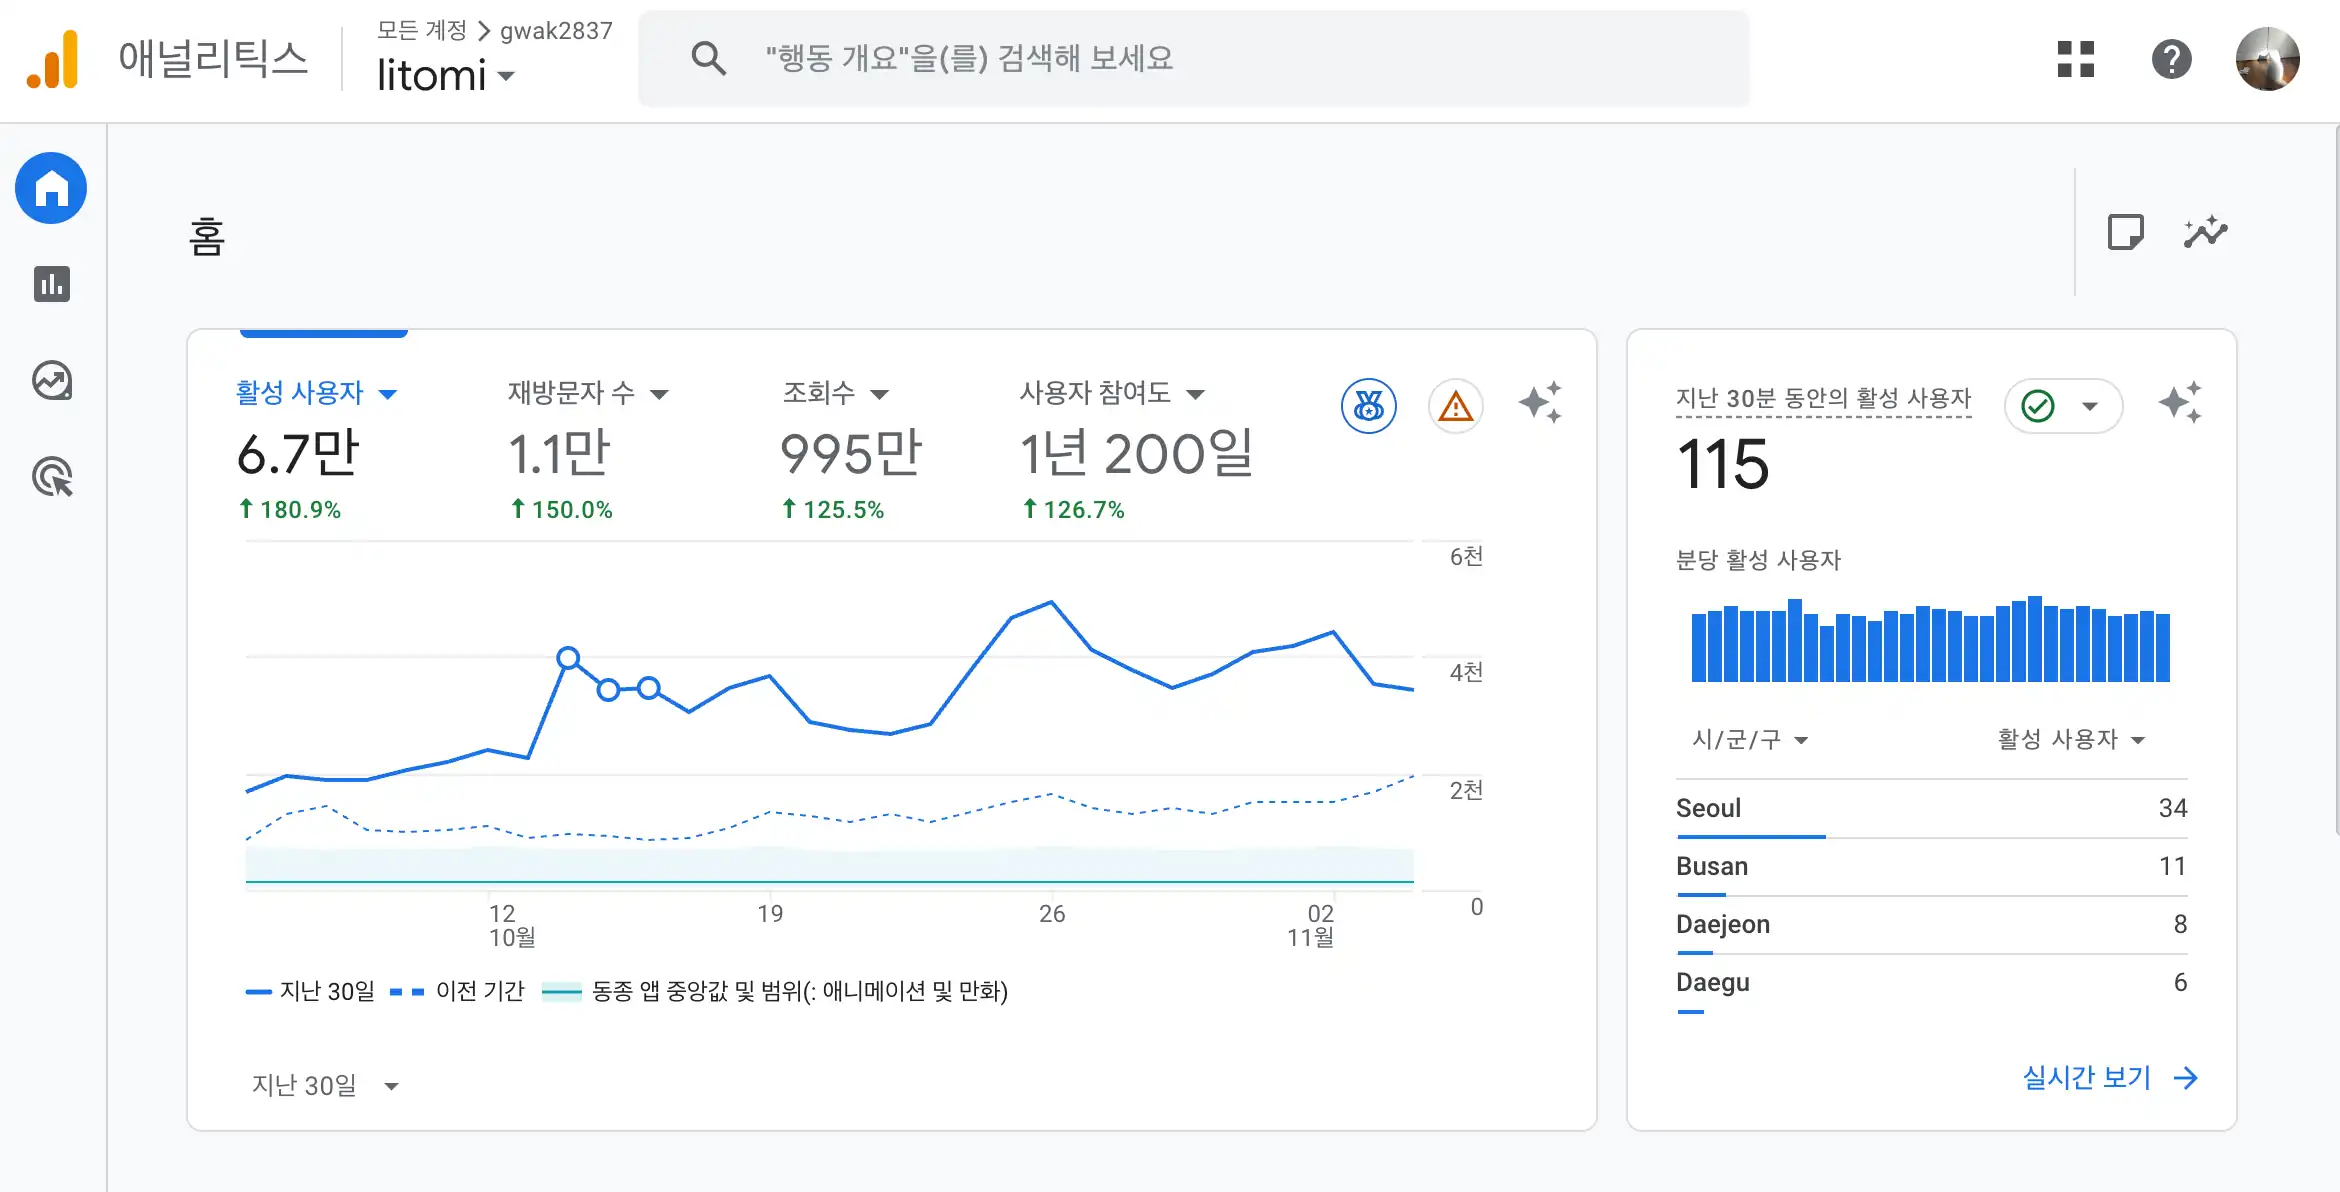
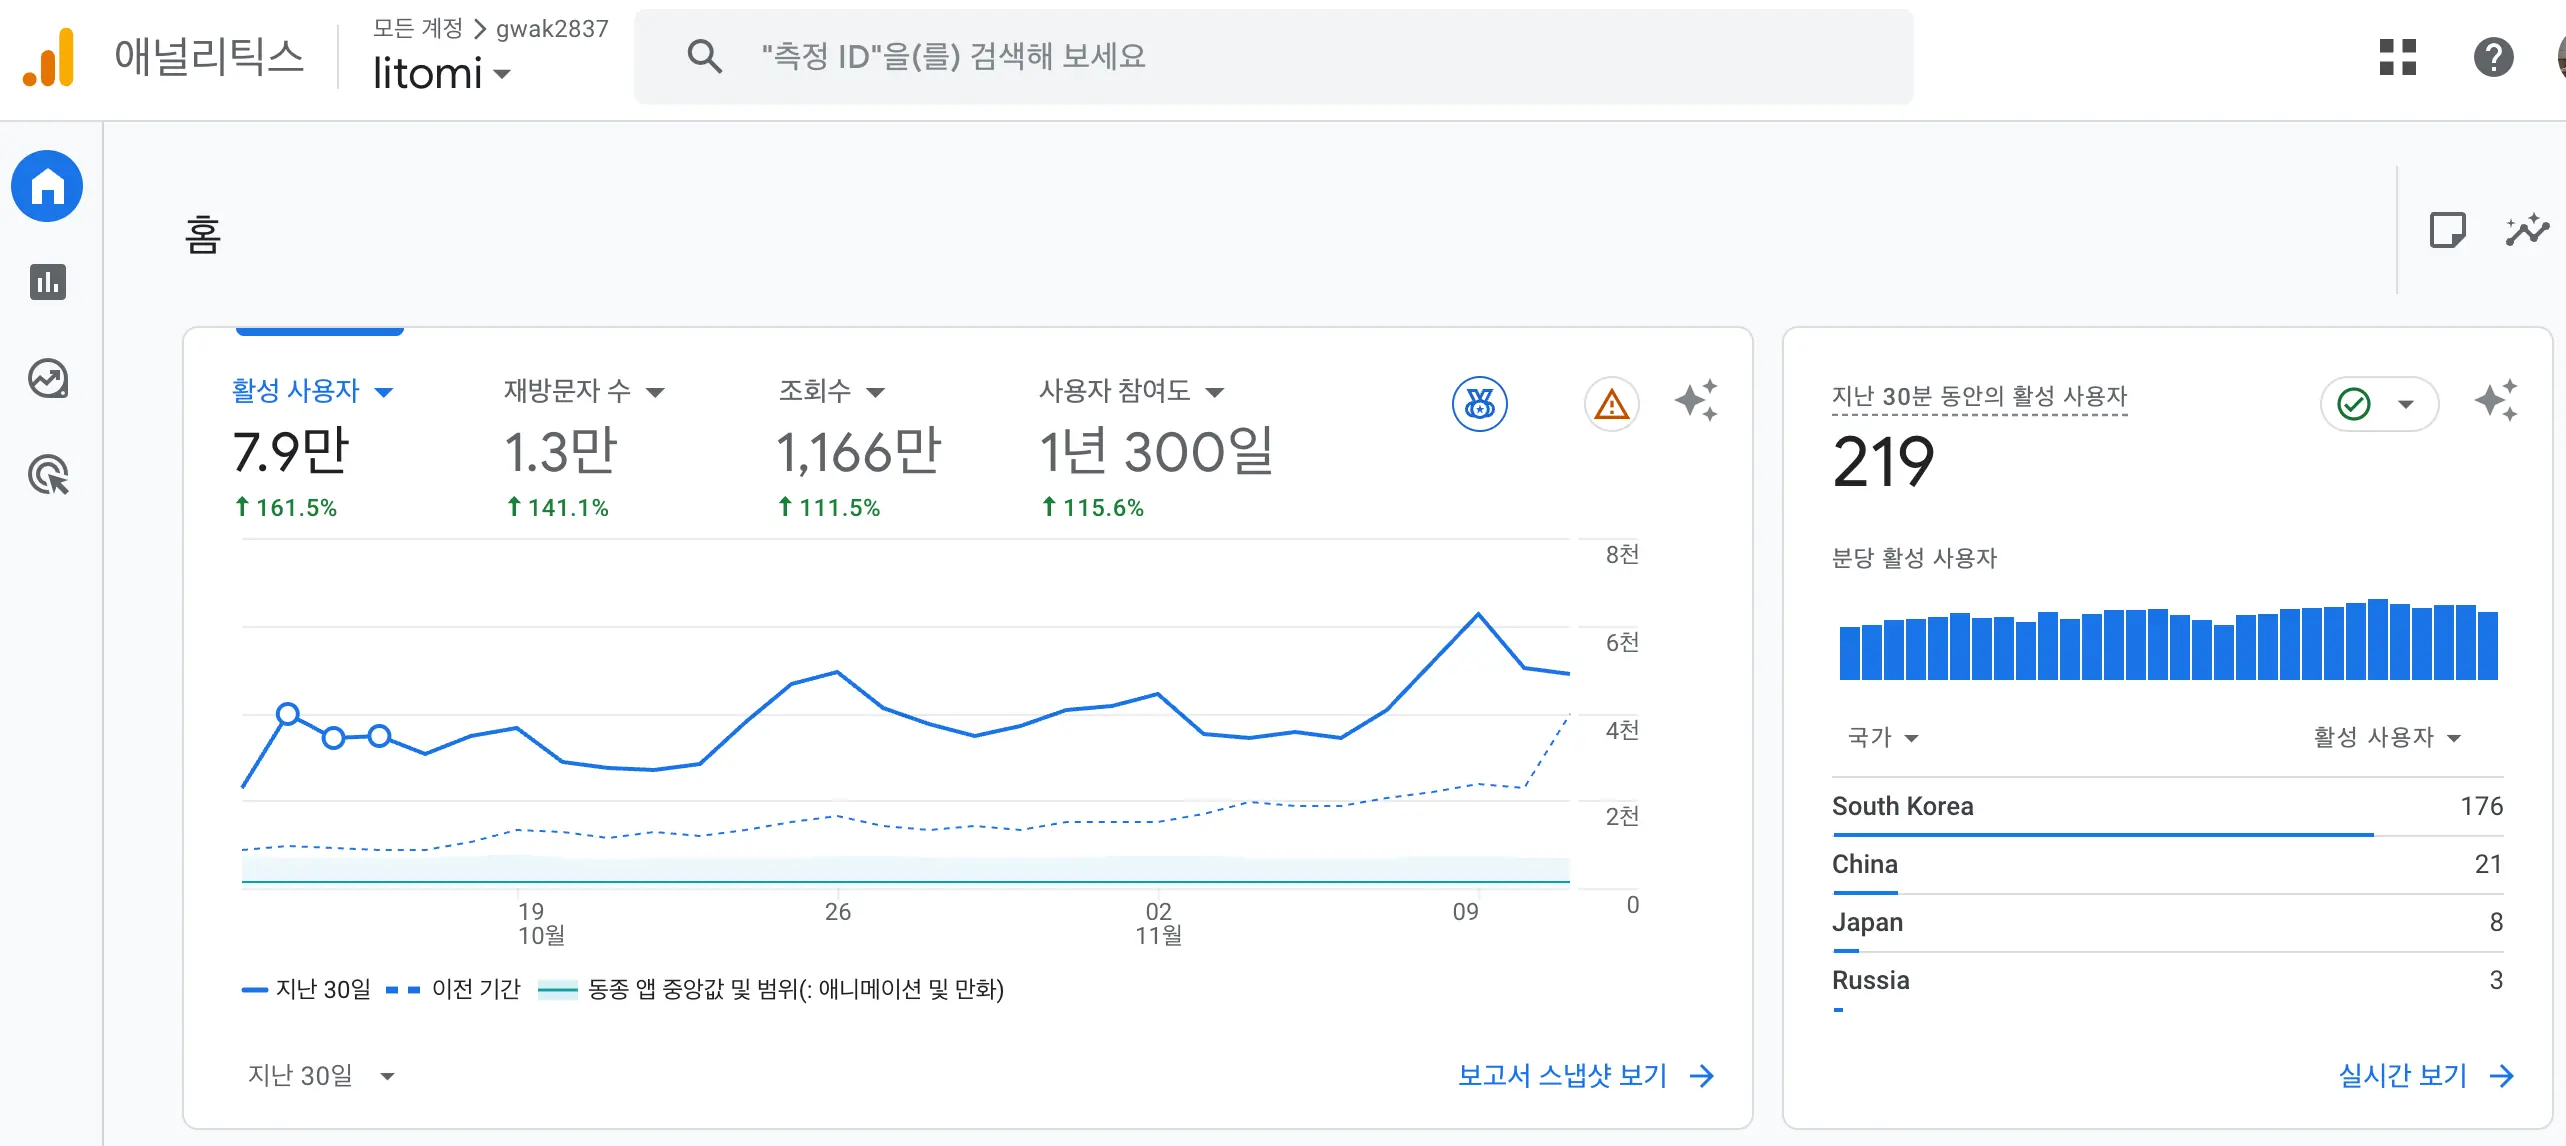
feat: 데이터 업데이트

diff --git a/src/app/[lang]/dictionary/project.ts b/src/app/[lang]/dictionary/project.ts
@@ -8,10 +8,10 @@ export const projectDict = {
     ja: '個人プロジェクト',
   },
   googleAnalytics: {
-    ko: '6.7만',
-    en: '67K',
-    zh: '6.7万',
-    ja: '6.7万',
+    ko: '7.9만',
+    en: '79K',
+    zh: '7.9万',
+    ja: '7.9万',
   },
   amplitude: {
     ko: '22.7%',
@@ -20,9 +20,9 @@ export const projectDict = {
     ja: '22.7%',
   },
   cloudflareAnalytics: {
-    ko: '87.4%',
-    en: '87.4%',
-    zh: '87.4%',
-    ja: '87.4%',
+    ko: '88.9%',
+    en: '88.9%',
+    zh: '88.9%',
+    ja: '88.9%',
   },
 }

diff --git a/src/app/[lang]/dictionary/general.tsx b/src/app/[lang]/dictionary/general.tsx
@@ -2,10 +2,10 @@ import 'server-only'
 import { formatDate } from './utils'
 
 export const 작성일 = {
-  ko: formatDate(2025, 11, 5, 'ko'),
-  en: formatDate(2025, 11, 5, 'en'),
-  zh: formatDate(2025, 11, 5, 'zh'),
-  ja: formatDate(2025, 11, 5, 'ja'),
+  ko: formatDate(2025, 11, 12, 'ko'),
+  en: formatDate(2025, 11, 12, 'en'),
+  zh: formatDate(2025, 11, 12, 'zh'),
+  ja: formatDate(2025, 11, 12, 'ja'),
 }
 
 export const generalDict = {
